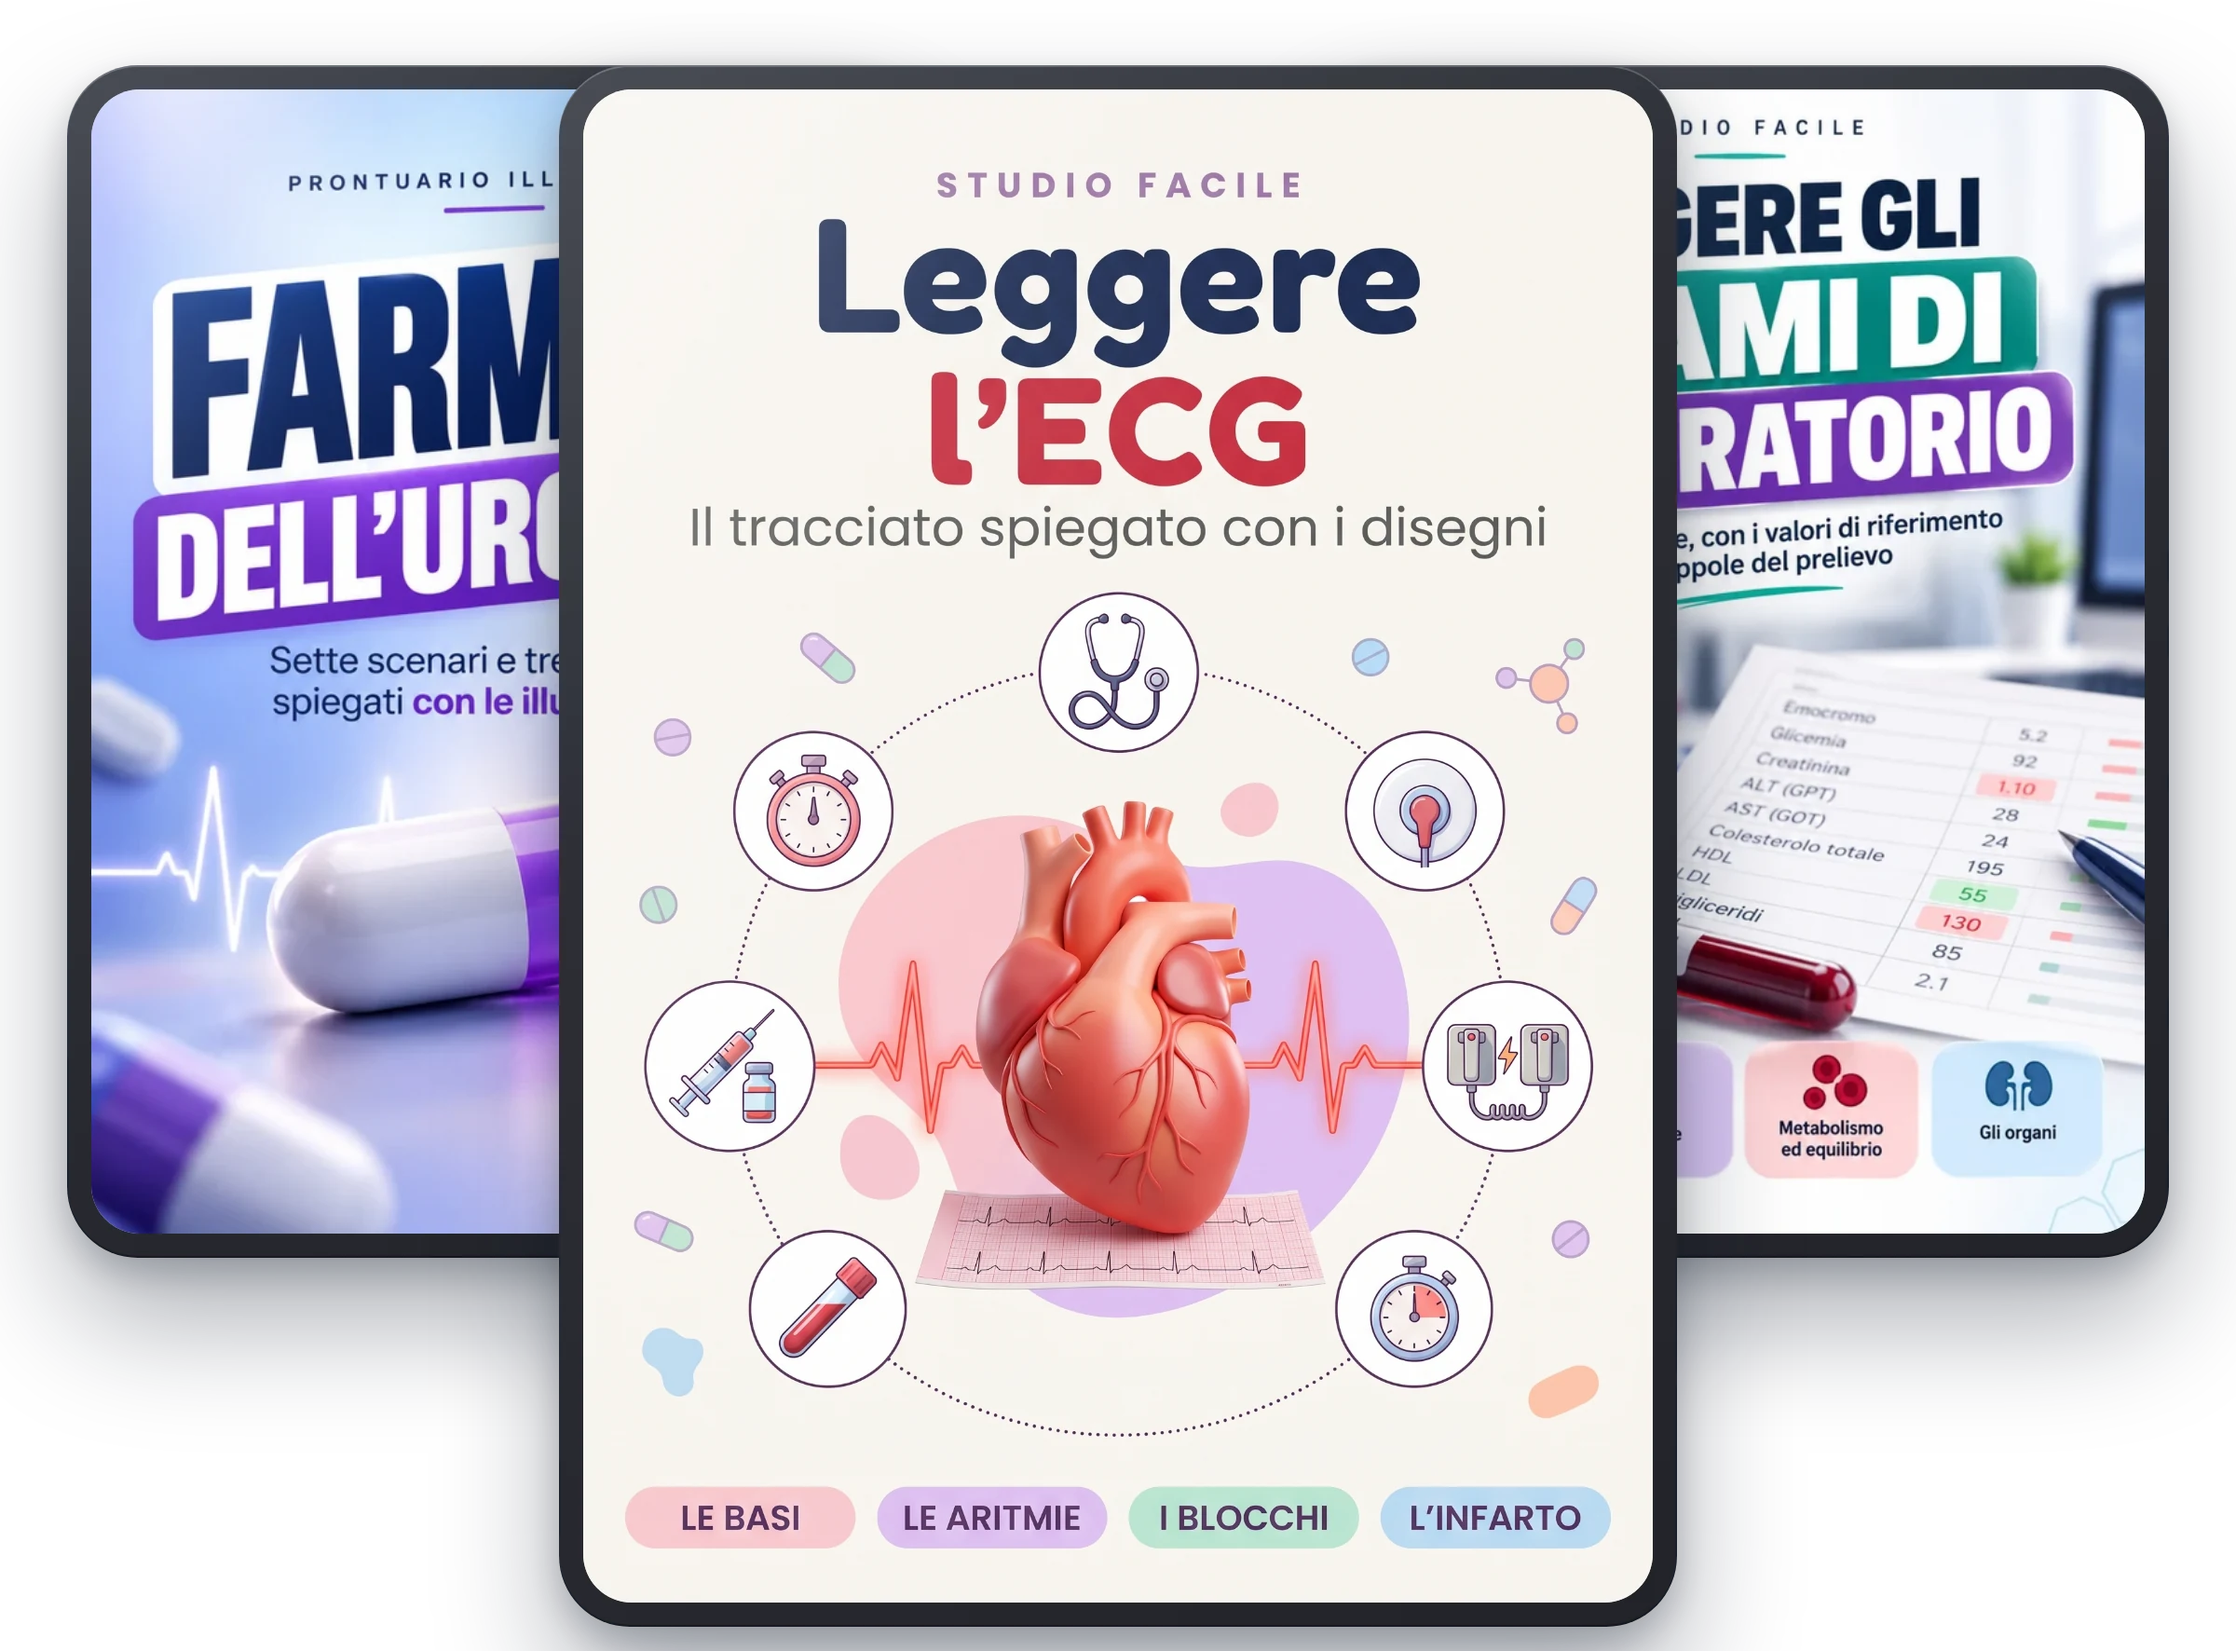
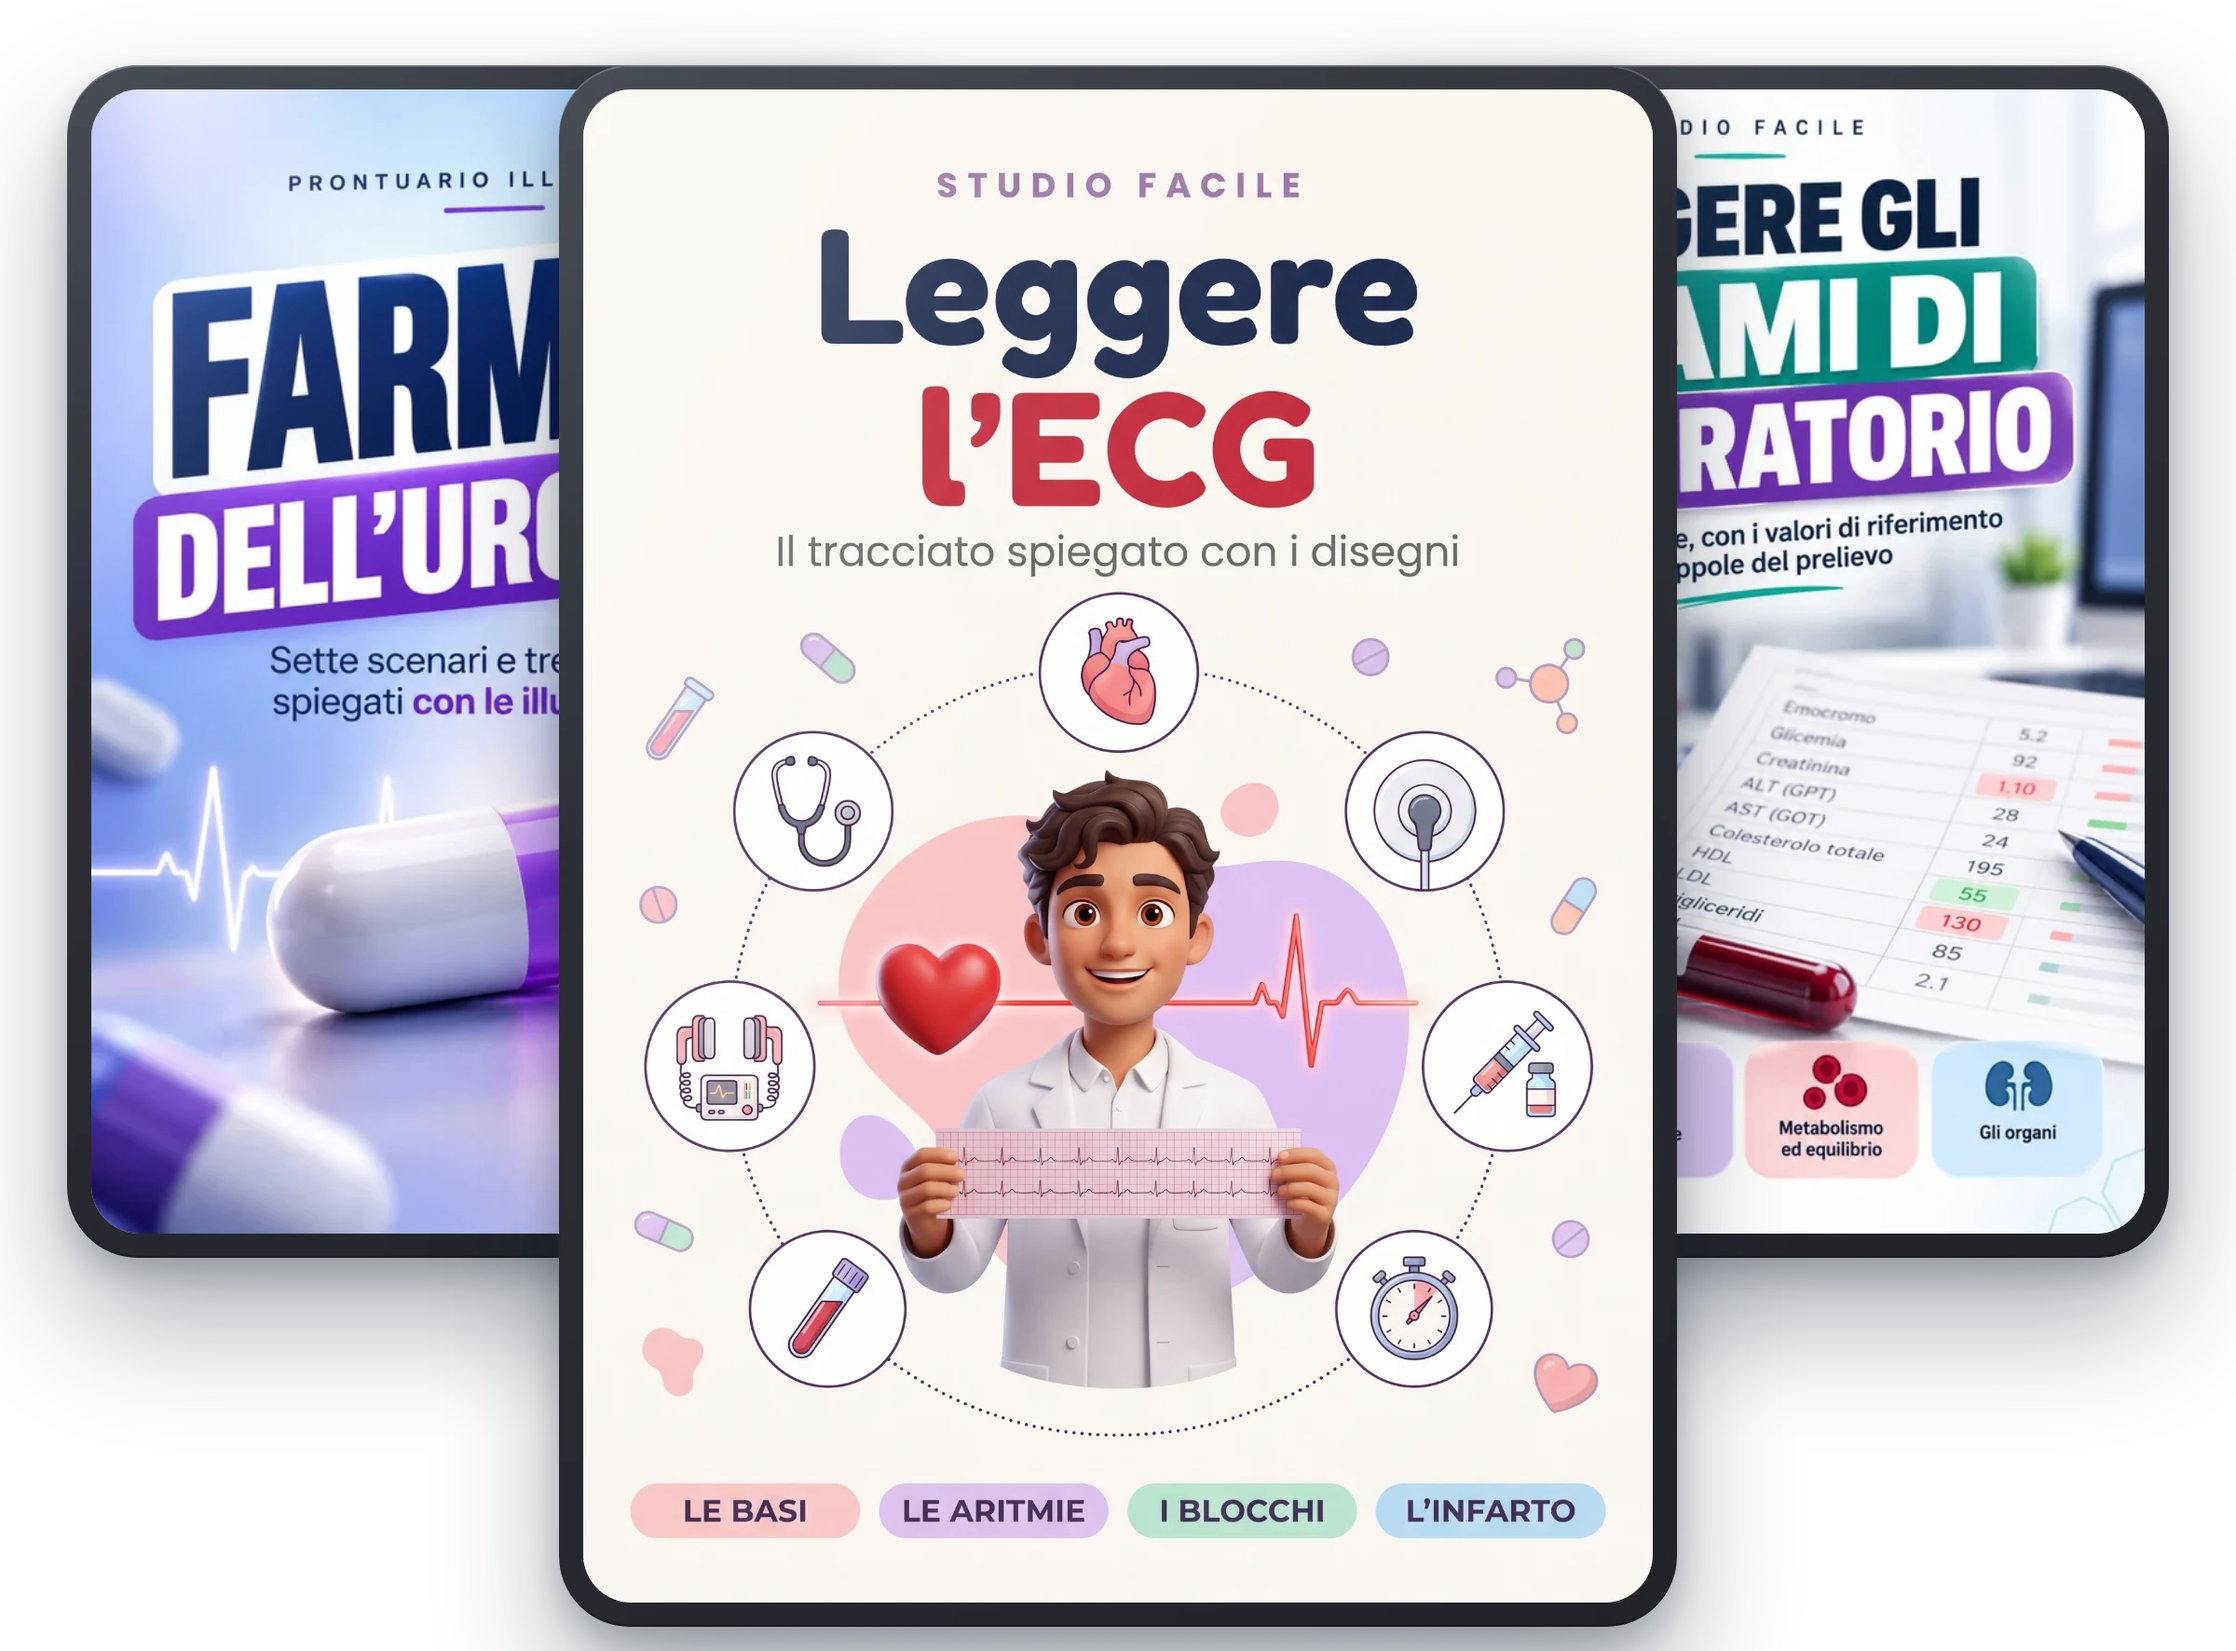
Landing /ecg: copertina con il personaggio Studio Facile (versione B)

diff --git a/ecg.html b/ecg.html
@@ -2131,7 +2131,7 @@
   <section class="hero">
     <div class="hero-content">
       <div class="hero-mockup">
-        <img src="https://czocbnyoenjbpxmcqobn.supabase.co/storage/v1/object/public/algoritmia-img/studiofacile/mockups/ecg/hero.webp?v=1666f53c" alt="Leggere l'ECG, con Farmaci in Emergenza e Leggere gli Esami di Laboratorio in regalo"
+        <img src="https://czocbnyoenjbpxmcqobn.supabase.co/storage/v1/object/public/algoritmia-img/studiofacile/mockups/ecg/hero.webp?v=d8a9f7e1" alt="Leggere l'ECG, con Farmaci in Emergenza e Leggere gli Esami di Laboratorio in regalo"
              width="1200" height="886" loading="eager" fetchpriority="high" decoding="async">
       </div>
       <p class="hero-social">
@@ -2404,7 +2404,7 @@
     <div class="container">
       <h2 class="text-center">Ecco Cosa Riceverai Acquistando Leggere l'ECG:</h2>
       <div style="margin: 20px auto 28px;">
-        <img src="https://czocbnyoenjbpxmcqobn.supabase.co/storage/v1/object/public/algoritmia-img/studiofacile/mockups/ecg/combo.webp?v=7522eabe" alt="Leggere l'ECG: mockup con pagine di esempio" width="1000" height="1473" loading="lazy" decoding="async" style="max-width: 480px; width: 100%; display: block; margin: 0 auto;">
+        <img src="https://czocbnyoenjbpxmcqobn.supabase.co/storage/v1/object/public/algoritmia-img/studiofacile/mockups/ecg/combo.webp?v=ee1d1af7" alt="Leggere l'ECG: mockup con pagine di esempio" width="1000" height="1473" loading="lazy" decoding="async" style="max-width: 480px; width: 100%; display: block; margin: 0 auto;">
       </div>
       <div class="topics-grid">
         <div class="topic-item">
@@ -2517,7 +2517,7 @@
 
       <!-- DECISION BOX -->
       <div class="decision-box" id="offerta">
-        <img src="https://czocbnyoenjbpxmcqobn.supabase.co/storage/v1/object/public/algoritmia-img/studiofacile/mockups/ecg/hero.webp?v=1666f53c" alt="Leggere l'ECG con i due volumi in regalo" class="db-mockup" width="1200" height="886" loading="lazy" decoding="async">
+        <img src="https://czocbnyoenjbpxmcqobn.supabase.co/storage/v1/object/public/algoritmia-img/studiofacile/mockups/ecg/hero.webp?v=d8a9f7e1" alt="Leggere l'ECG con i due volumi in regalo" class="db-mockup" width="1200" height="886" loading="lazy" decoding="async">
         <h3 class="db-title">Leggere l'ECG + 2 Volumi in Regalo</h3>
         <ul class="db-checklist">
           <li><span class="db-check"><svg viewBox="0 0 24 24"><polyline points="20 6 9 17 4 12"/></svg></span>Leggere l'ECG: 68 pagine illustrate<span class="db-price-val">16,90€</span></li>
